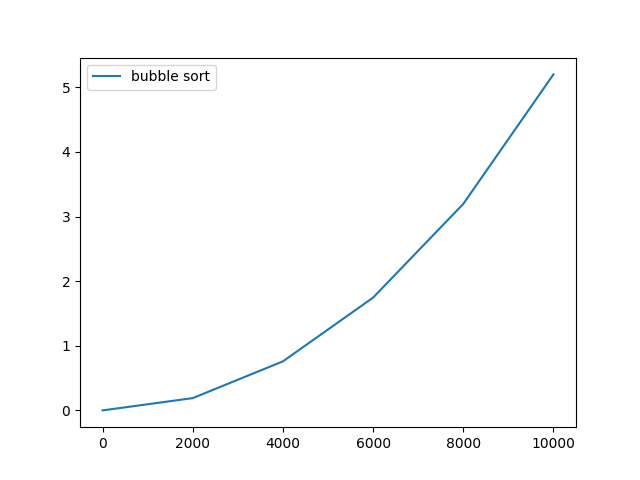
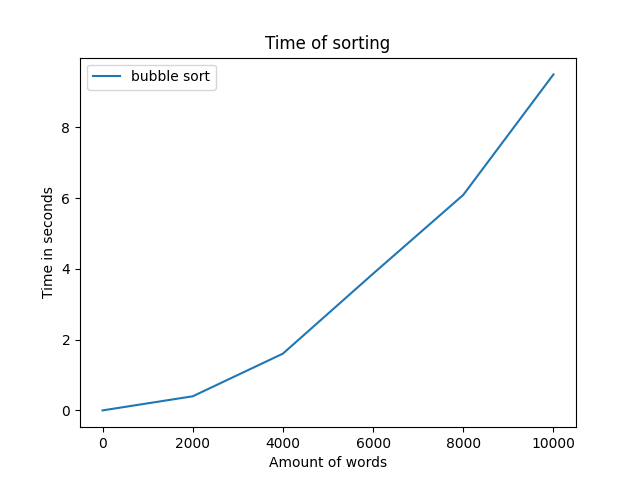
corrected plots with labels and corrected bubble sort a bit

diff --git a/Sorts/sorting_time_plots.py b/Sorts/sorting_time_plots.py
@@ -54,9 +54,11 @@ def plot_results(path, limit, title):
     plt.plot(keys, values2, '-', label='bubble sort', markersize=3)
     plt.plot(keys, values3, '-', label='merge sort', markersize=3)
     plt.legend()
-    plt.title(label='')
+    plt.xlabel('Amount of words')
+    plt.ylabel('Time in seconds')
+    plt.title(label='Time of sorting')
     figure = plt.gcf()
     figure.savefig(title, format='png')
 
 
-plot_results('pan-tadeusz-unix.txt', 10000, './Plots/merge_pantadeusz.png')
+plot_results('pan-tadeusz-unix.txt', 10000, './Plots/bubble_pantadeusz.png')

diff --git a/Sorts/BubbleSort/bubble_sort.py b/Sorts/BubbleSort/bubble_sort.py
@@ -3,9 +3,13 @@ from change_position import change_element_positions
 
 def bubble_sort(list_for_sort):
     list_length = len(list_for_sort)
-
     for i in range(list_length):
+        flag = False
 
         for j in range(0, list_length - i - 1):
             if list_for_sort[j] > list_for_sort[j + 1]:
                 change_element_positions(list_for_sort, j, j+1)
+                flag = True
+
+        if not flag:
+            break
